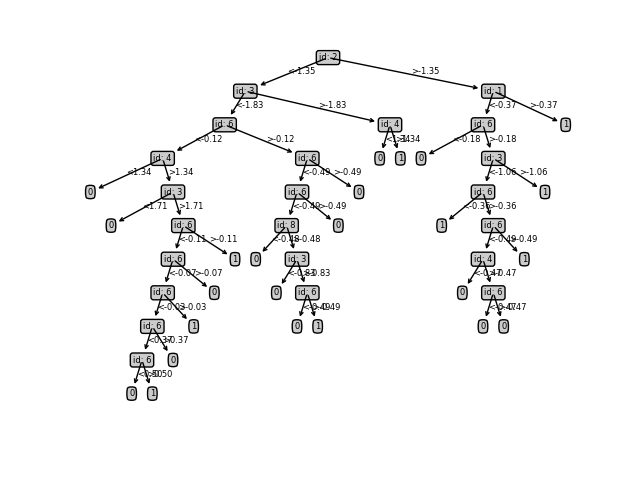
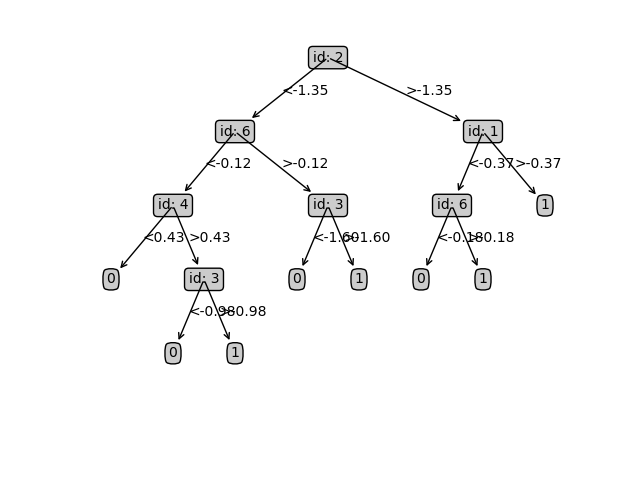
fix plot tree

diff --git a/ML_works/lian_chuang/5-2_myTitanCART.py b/ML_works/lian_chuang/5-2_myTitanCART.py
@@ -38,8 +38,9 @@ class CART:
     def __init__(self, filename):
         df = pd.read_csv(filename, header=0, sep=",", dtype=float)
         self.dataSet = np.mat(df)
-        self.testData = self.dataSet[:150]
-        self.dataSet = self.dataSet[150:]
+        self.testData = self.dataSet[100:200]
+        self.pruneData = self.dataSet[:100]
+        self.dataSet = self.dataSet[200:]
 
     def binSplitDataSet(self, dataSet, feature, value):
         mat0 = dataSet[np.nonzero(dataSet[:, feature] > value)[0], :]
@@ -112,7 +113,7 @@ class CART:
 
     def predict(self):
         tree = self.createTree(self.dataSet)
-        tree = self.prune(tree, self.testData)
+        tree = self.prune(tree, self.pruneData)
         self.Tree = tree
         predVec = self.createFore(tree)
         pred = []
@@ -127,23 +128,23 @@ class CART:
         acc /= len(self.testData)
         print('acc: ', acc)
 
-    def prune(self, tree, testData):
-        if np.shape(testData)[0] == 0:
+    def prune(self, tree, pruneData):
+        if np.shape(pruneData)[0] == 0:
             return self.getMean(tree)
         if isTree(tree.lChild) or isTree(tree.rChild):
-            lSet, rSet = self.binSplitDataSet(testData,
+            lSet, rSet = self.binSplitDataSet(pruneData,
                                               tree.spInd, tree.spVal)
         if isTree(tree.lChild):
             tree.lChild = self.prune(tree.lChild, lSet)
         if isTree(tree.rChild):
             tree.rChild = self.prune(tree.rChild, rSet)
         if (not isTree(tree.lChild)) and (not isTree(tree.rChild)):
-            lSet, rSet = self.binSplitDataSet(testData,
+            lSet, rSet = self.binSplitDataSet(pruneData,
                                               tree.spInd, tree.spVal)
             errorNoMerge = sum(np.power(lSet[:, 0]-tree.lChild, 2)) +\
                 sum(np.power(rSet[:, 0]-tree.rChild, 2))
             treeMean = (tree.lChild+tree.rChild)/2
-            errorMerge = sum(np.power(testData[:, 0]-treeMean, 2))
+            errorMerge = sum(np.power(pruneData[:, 0]-treeMean, 2))
             if errorNoMerge > errorMerge:
                 print("merge")
                 return treeMean
@@ -162,3 +163,5 @@ class CART:
 
 c = CART(R'lian_chuang\data\myTitanic.csv')
 c.predict()
+
+

diff --git a/ML_works/lian_chuang/2.0.4_visualizeTree.py b/ML_works/lian_chuang/2.0.4_visualizeTree.py
@@ -1,9 +1,6 @@
-import imp
-with open('lian_chuang\\5-2_myTitanCART.py', 'rb') as fp:
-    models_admin = imp.load_module(
-        'models_admin', fp, 'models.admin.py',
-        ('.py', 'rb', imp.PY_SOURCE)
-    )
+
+
+
 
 decisionNode = dict(boxstyle='round', fc='0.8')
 leafNode = dict(boxstyle='round4', fc='0.8')
@@ -27,13 +24,13 @@ def getTreeDepth(myTree):
 def plotNode(nodeTxt, centerPt, parentPt, nodeType):
     plt.annotate(nodeTxt, xy=parentPt, xycoords='axes fraction',
                  xytext=centerPt, textcoords='axes fraction',
-                 va='center', ha='center', size=6, bbox=nodeType, arrowprops=arrow_args)
+                 va='center', ha='center', size=10, bbox=nodeType, arrowprops=arrow_args)
 
 
 def plotMidText(centerPt, parentPt, txtString):
     xMid = (parentPt[0] - centerPt[0]) / 2.0 + centerPt[0]
     yMid = (parentPt[1] - centerPt[1]) / 2.0 + centerPt[1]
-    plt.text(xMid, yMid, txtString, size=6,)
+    plt.text(xMid, yMid, txtString, size=10,)
 
 
 def plotTree(myTree, parentPt, nodeTxt):
